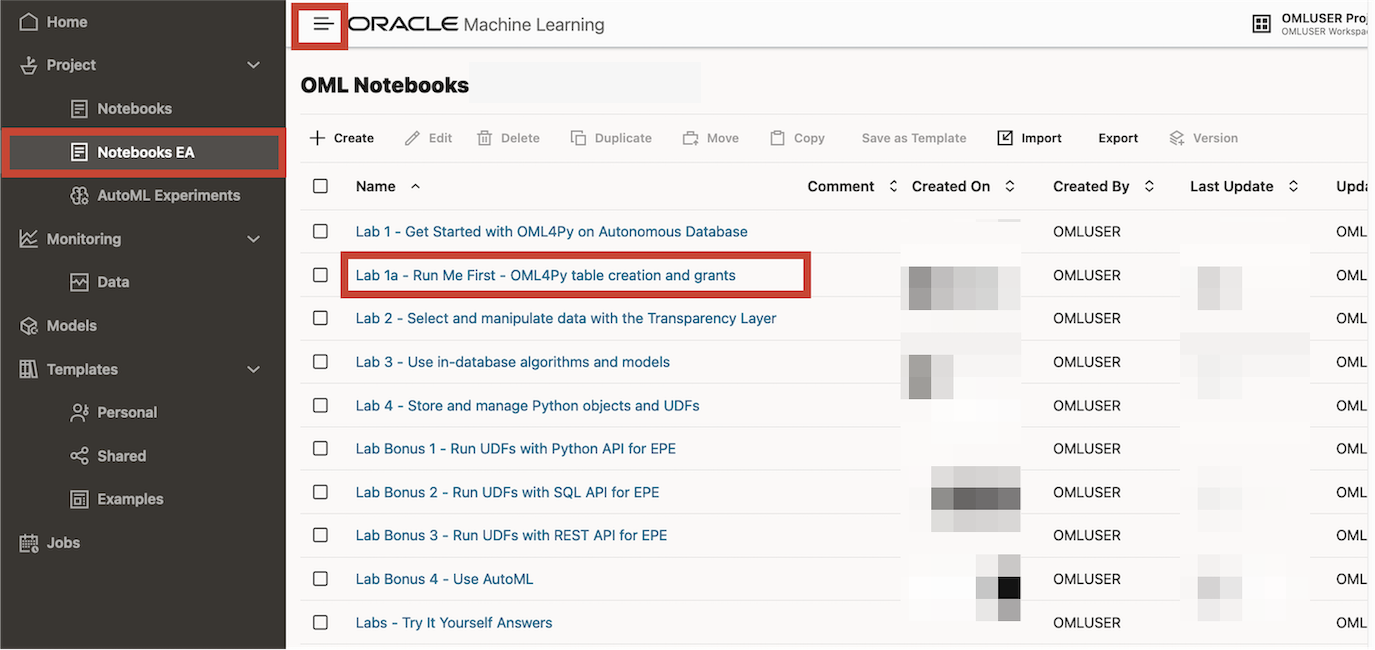
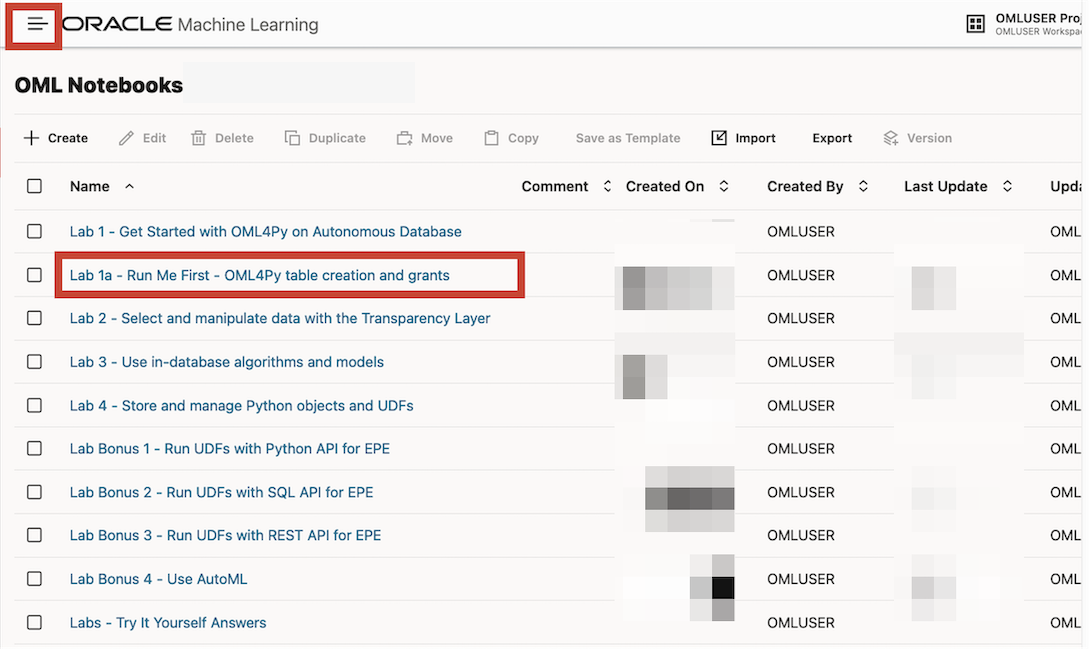
Changes to screenshots.
OML Notebooks EA --> OML Notebooks

diff --git a/oml4py-adb/get-started/get-started.md b/oml4py-adb/get-started/get-started.md
@@ -251,7 +251,11 @@ We will now download a set of Notebooks that will be used throughout the worksho
 
 > **NOTE:** If you have problems with downloading and extracting the ZIP file, please [**CLICK HERE** to download the "Lab 1a - Run Me First - OML4Py table creation and grants" notebook DSNB file](<./../notebooks/Lab 1a - Run Me First - OML4Py table creation and grants.dsnb?download=1>). This notebook contains the scripts for creating tables and views, and granting the required access. Save it to your local machine and import it like illustrated in **Task 2, Step 1**.
 
-2. Go back to the main Notebooks listing by clicking on the "hamburger" menu (the three lines) on the upper left of the screen, and then select **Notebooks EA**. Click the **Lab 1a** notebook to view it.
+2. Go back to the main Notebooks page by clicking on the Cloud menu icon ![](images/cloud-menu-icon.png) on the upper left corner of the page to open the left navigation menu.  
+   
+   ![Go to main Notebooks](images/go-back-to-notebooks.png " ")
+3. On the left navigation menu, click **Notebooks**.   
+
 <if type="freetier"> 
  ![Main Menu clicking Lab 1A](images/click-on-lab1a-ft.png " ")
  </if>

diff --git a/oml4py-adb/in-db-algo-models/in-db-algo-models.md b/oml4py-adb/in-db-algo-models/in-db-algo-models.md
@@ -26,11 +26,11 @@ In this lab, you will learn how to:
 
  > **NOTE:** If you have problems with downloading and extracting the ZIP file in Lab 1 Task 2, please [**CLICK HERE** to download the "Lab 3 - Use in-database algorithms and models" notebook DSNB file](<./../notebooks/Lab 3 - Use in-database algorithms and models.dsnb?download=1>). This notebook contains the scripts for **Lab 3**. Save it to your local machine and import it like illustrated in **Lab 1, Task 2, Step 1**.
 
-   Go back to the main Notebooks page by clicking on the Cloud menu icon ![Cloud menu icon](cloud-menu-icon.png) on the upper left of the screen, and then select **Notebooks**. 
+2. Go back to the main Notebooks page by clicking on the Cloud menu icon ![Cloud menu icon](cloud-menu-icon.png) on the upper left corner of the page, and then select **Notebooks**. 
    
-   ![Go to main Notebooks EA](images/go-back-to-notebooks.png " ")
+   ![Go to main Notebooks](images/go-back-to-notebooks.png " ")
    
-   Click the **Lab 3** notebook to view it.
+3. Click the **Lab 3** notebook to view it.
    
    <if type="freetier">
    ![Open Lab 3 notebook ft](images/click-on-lab3-ft.png " ") </if>
